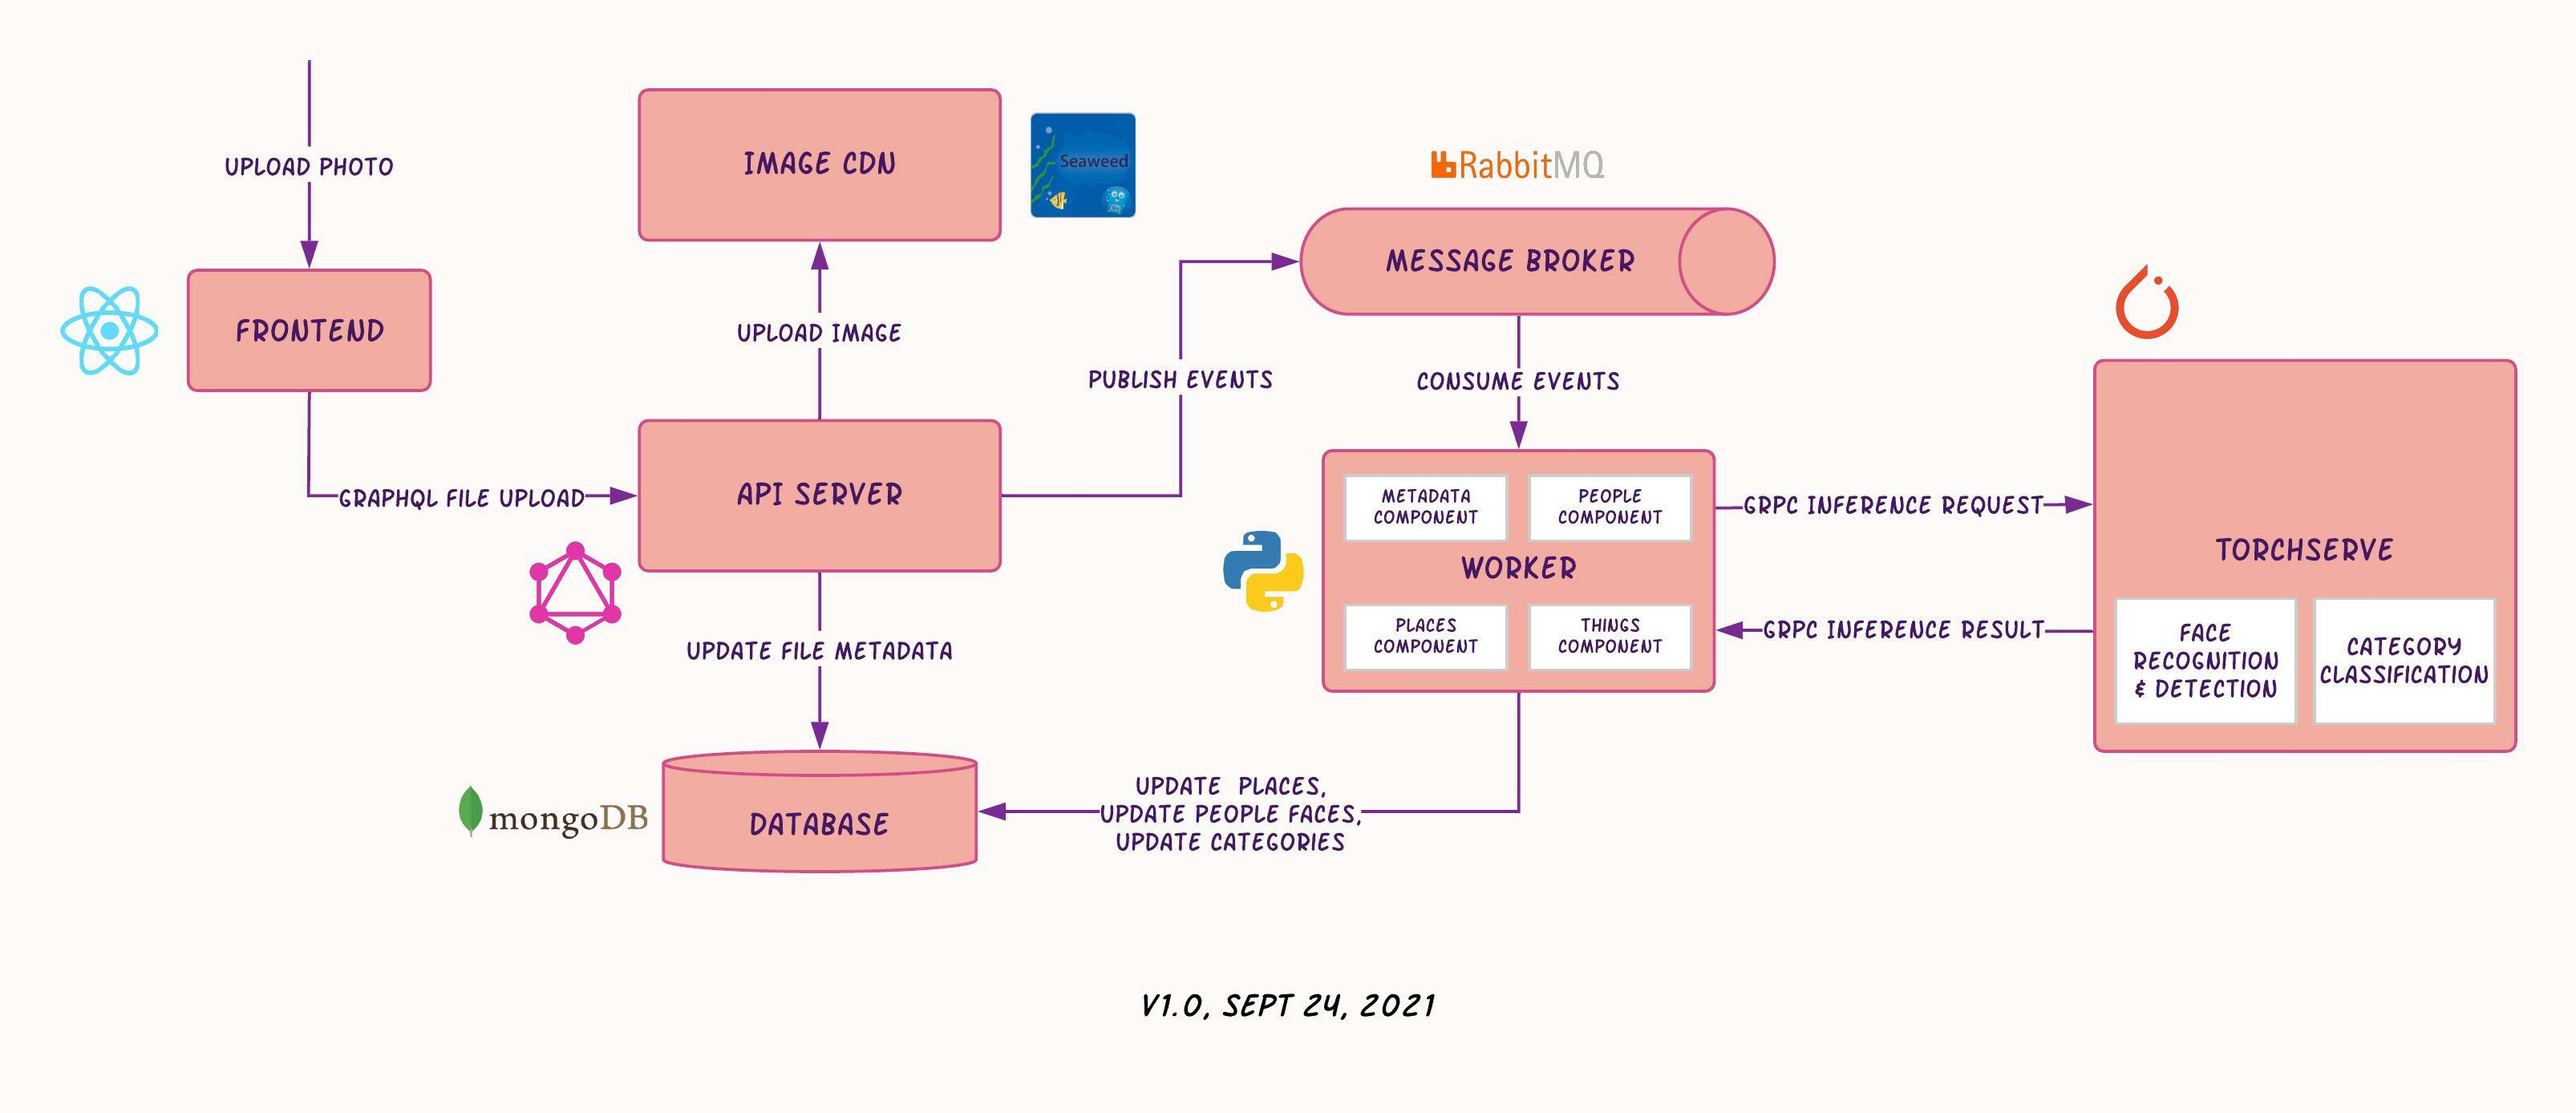
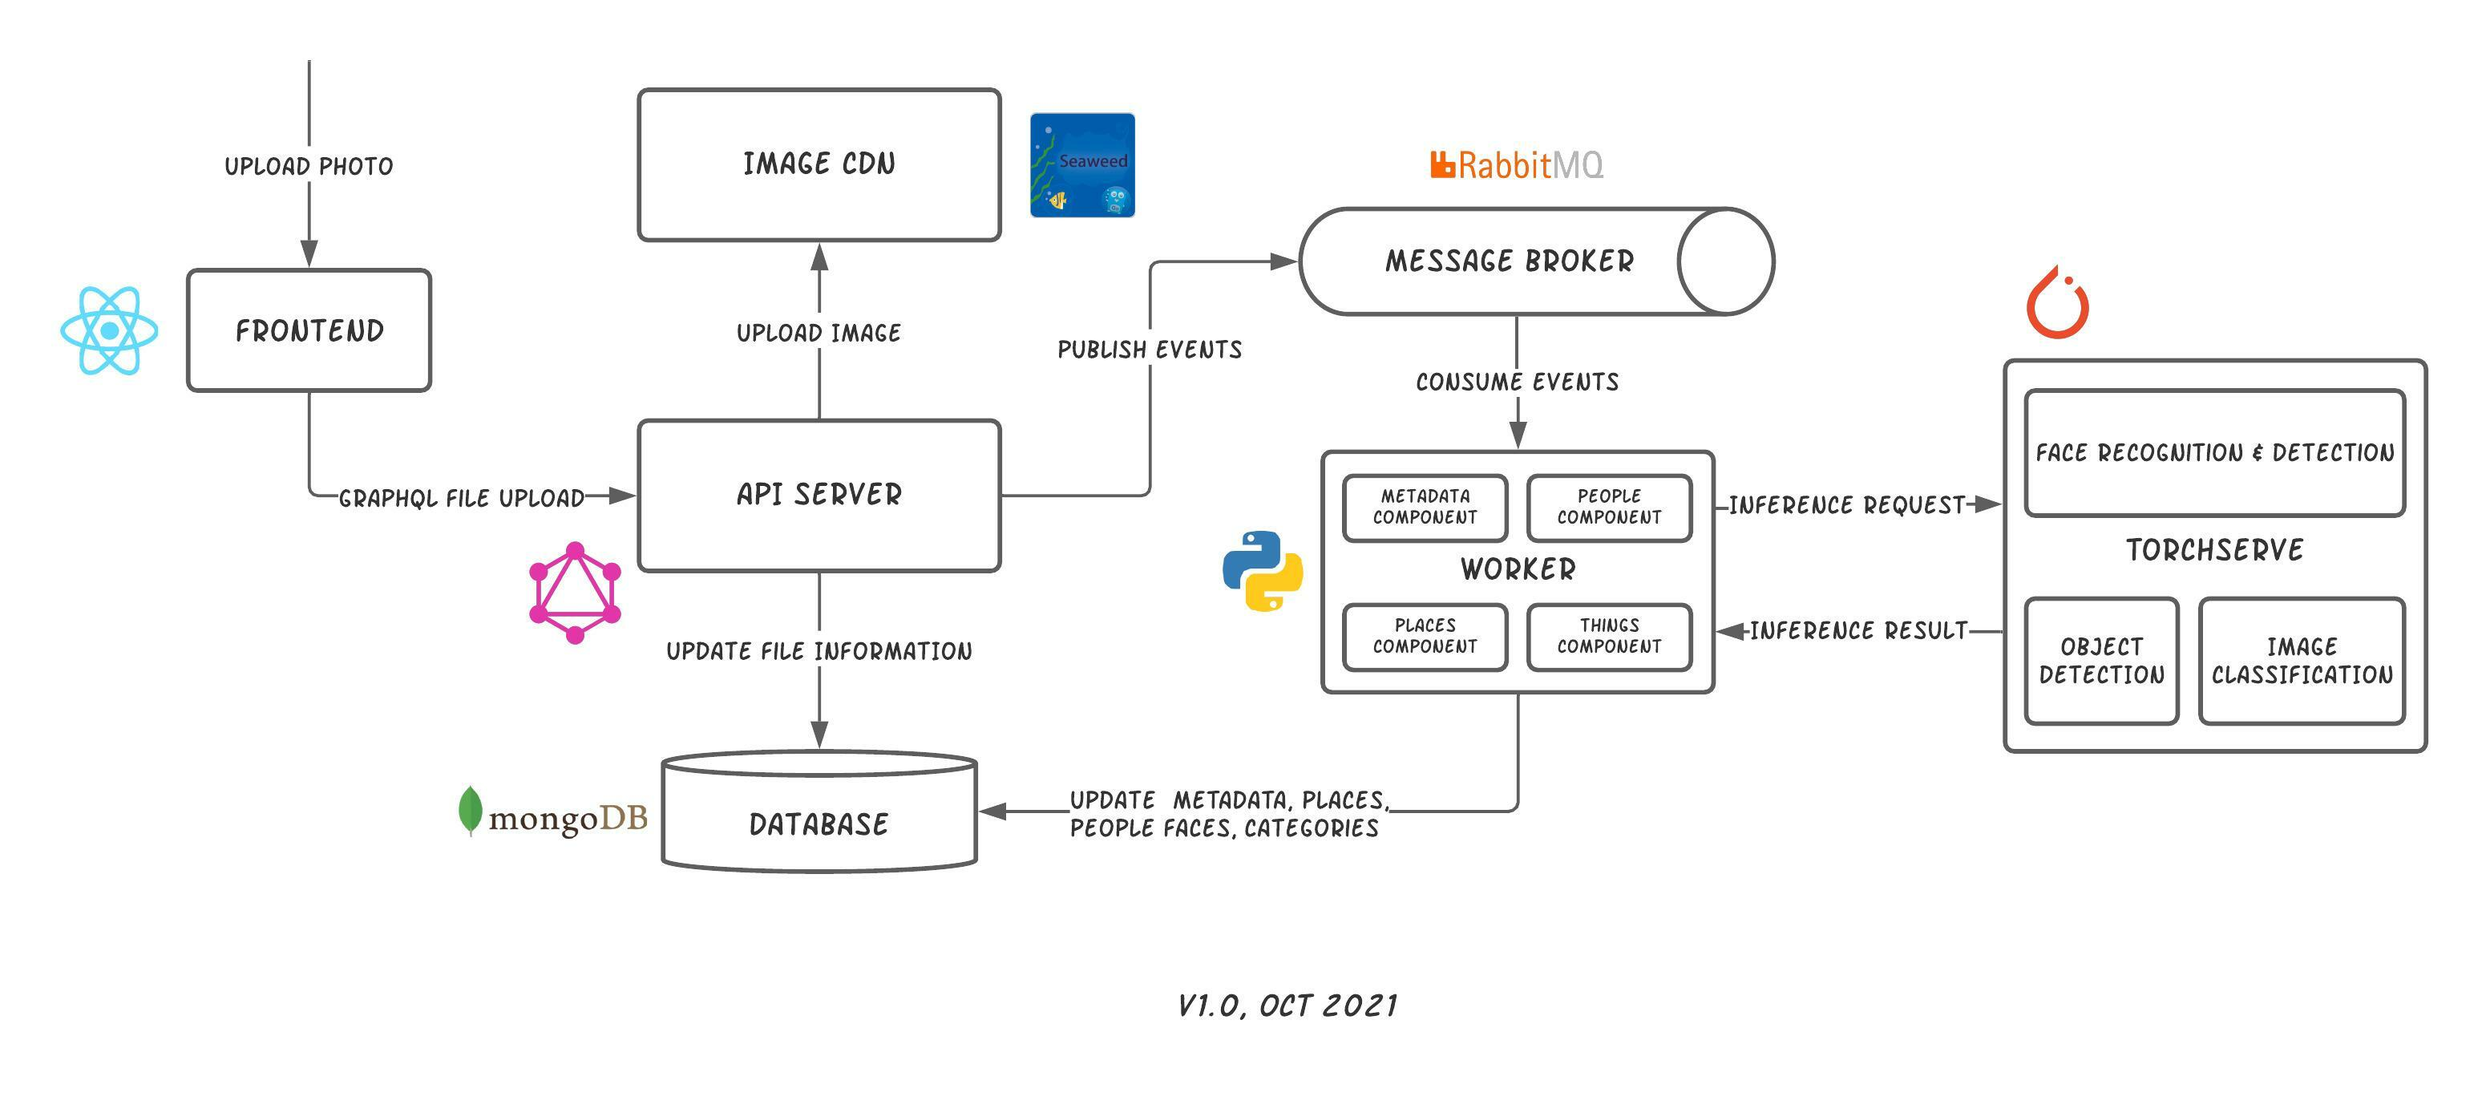
Some WIP for entity things

diff --git a/worker/pipeline/things.py b/worker/pipeline/things.py
@@ -1,4 +1,6 @@
 """Things"""
+import json
+import urllib.request
 from .component import Component
 
 
@@ -7,8 +9,10 @@ class Things(Component):
   def __init__(self, db, oid, image_url):
     super().__init__('things', db, oid, image_url)
     self.INFERENCE_TYPES = [
-      'object_detection',
-      'image_classification'
+      'object_detection', 'image_classification'
+    ]
+    self.MODELS = [
+      'maskrcnn', 'resnet152'
     ]
     self.CONTENT_CATEGORIES = [
       'ANIMALS', 'FOOD', 'GARDENS', 'SPORT', 'PEOPLE', 'TRAVEL', 'WEDDINGS',
@@ -51,14 +55,32 @@ class Things(Component):
       return self.IMAGE_CLASSIFICATION_CLASSES_TO_CATEGORY[class_name]
     return None
 
+  def get_inference_results(self, inference_type, model_name):
+    """Calls torchserve inference api and returns response"""
+    result_classes = []
+    with urllib.request.urlopen(f'http://ml:5002/predictions/{model_name}') as url:
+      data = json.loads(url.read().decode('utf-8'))
+      if inference_type == self.INFERENCE_TYPES[0]:
+        for item in data:
+          keys = item.keys()
+          if 'score' in keys and item['score'] > 0.90:
+            result_classes.append(item[keys[0]])
+        return result_classes
+      if inference_type == self.INFERENCE_TYPES[1]:
+        for item in data:
+          if data[item] > 0.90:
+            result_classes.append(item)
+        return result_classes
+    return result_classes
+
   def process(self):
     result_categories = []
-    # make gRPC inference call for object detection
+    # make inference call for object detection
     od_classes = [''] # later(omkar): get object detection classes with 90% and above
     for od_class in od_classes:
       result_categories.append(self.class_to_category(self.INFERENCE_TYPES[0], od_class))
 
-    # make gRPC inference call for image classification
+    # make inference call for image classification
     ic_classes = [''] # later(omkar): get image classification classes with 90% and above
     for ic_class in ic_classes:
       result_categories.append(self.class_to_category(self.INFERENCE_TYPES[1], ic_class))
